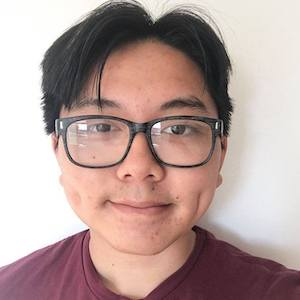
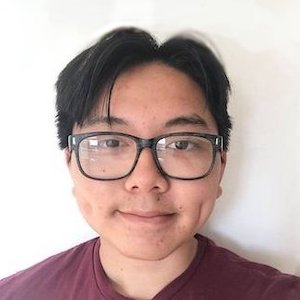
update officer photos

diff --git a/src/public/Config.ts b/src/public/Config.ts
@@ -143,7 +143,7 @@ export const OFFICERS = [
     {
         name: "Matthew Mikhailov",
         position: "Supercomputing Chair",
-        photo: "img/officers/temp.png",
+        photo: "img/officers/matthew.jpg",
         email: "email@ucsd.edu",
     },
     {
@@ -155,7 +155,7 @@ export const OFFICERS = [
     {
         name: "Sanh Nguyen",
         position: "Quarterly Projects Chair",
-        photo: "img/officers/temp.png",
+        photo: "img/officers/sanh.jpg",
         email: "email@ucsd.edu",
     },
     {
@@ -179,13 +179,13 @@ export const OFFICERS = [
     {
         name: "Yusuf Morsi",
         position: "Technical Chair",
-        photo: "img/officers/temp.png",
+        photo: "img/officers/yusuf.jpg",
         email: "email@ucsd.edu",
     },
     {
         name: "Shaun Garcia",
         position: "Technical Chair",
-        photo: "img/officers/temp.png",
+        photo: "img/officers/shaun.jpg",
         email: "email@ucsd.edu",
     },
     {
